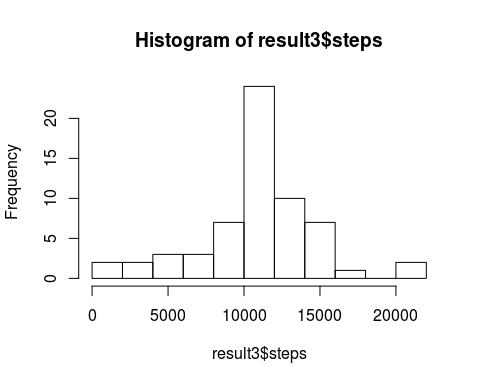
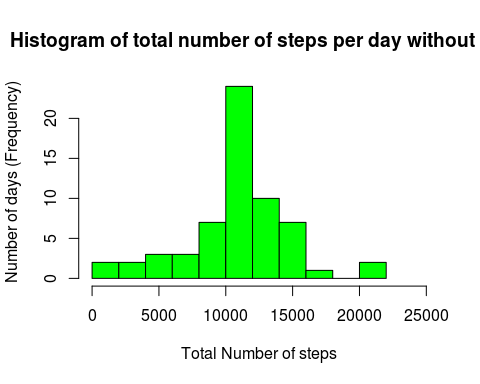
Second version

diff --git a/PA1_template.html b/PA1_template.html
@@ -72,7 +72,7 @@ img {
 <pre class="r"><code>unzip(&quot;activity.zip&quot;)
 fulldata &lt;- read.csv(&quot;activity.csv&quot;,header = T)</code></pre>
 <ol start="2" style="list-style-type: decimal">
-<li>Process/transform the data (if necessary) into a format suitable for your analysis<br />The date column is transformed from Factor to Date to ease later processing. The result is a 17568 ibservation dataframe with 3 columns.</li>
+<li>Process/transform the data (if necessary) into a format suitable for your analysis<br />The date column is transformed from Factor to Date to ease later processing.<br />The result is a 17568 observations dataframe with 3 columns.</li>
 </ol>
 <pre class="r"><code>fulldata$date &lt;- as.Date(fulldata$date,format=&quot;%Y-%m-%d&quot;)
 str(fulldata)</code></pre>
@@ -97,10 +97,9 @@ result &lt;- filteredata[,lapply(.SD,sum),by=date]</code></pre>
 <ol start="3" style="list-style-type: decimal">
 <li>The mean and median number of steps taken per day are:</li>
 </ol>
-<pre class="r"><code>median(result$steps)</code></pre>
-<pre><code>## [1] 10765</code></pre>
-<pre class="r"><code>mean(result$steps)</code></pre>
-<pre><code>## [1] 10766.19</code></pre>
+<pre class="r"><code>result_median&lt;-median(result$steps)
+result_mean&lt;-mean(result$steps)</code></pre>
+<p>Median: 10765<br />Mean; 10766.19</p>
 </div>
 <div id="what-is-the-average-daily-activity-pattern" class="section level2">
 <h2>What is the average daily activity pattern?</h2>
@@ -127,27 +126,23 @@ plot(x = result2$interval,y=result2$steps,type = &quot;l&quot;, col=&quot;blue&q
 <pre class="r"><code>     sum(is.na(fulldata$steps))</code></pre>
 <pre><code>## [1] 2304</code></pre>
 <ol start="2" style="list-style-type: decimal">
-<li>Devise a strategy for filling in all of the missing values in the dataset. I decided to substitute NA with the average of the 5 minute interval of all days.<br />So I merge the full data frame with NA togheter with the result from the previous steps representing the average of the five minute interval amont all days.</li>
+<li>Devise a strategy for filling in all of the missing values in the dataset. I decided to substitute <code>NA</code> with the average of the 5 minute interval of all days.<br />So I merge the full data frame with <code>NA</code> togheter with the result from the previous steps representing the average of the five minute interval amont all days.</li>
 </ol>
 <pre class="r"><code>     newfulldata&lt;- fulldata
      temp &lt;- merge(newfulldata[is.na(newfulldata),],result2, by = &quot;interval&quot;)</code></pre>
 <ol start="3" style="list-style-type: decimal">
 <li>Create a new dataset that is equal to the original dataset but with the missing data filled in.</li>
 </ol>
-<p>Then the new dataset “newfulldata” is created substituting NA on the first column (steps)</p>
+<p>Then the new dataset <code>newfulldata</code> is created substituting <code>NA</code> on the first column (steps)</p>
 <pre class="r"><code>     newfulldata[is.na(newfulldata),][,1] &lt;- temp[order(as.Date(temp$date.x,format=&quot;%Y-%m-%d&quot;)),][,4]</code></pre>
-<pre class="r"><code>     newfulldata &lt;- data.table(newfulldata)
-     result3 &lt;- newfulldata[,lapply(.SD,sum),by=date]</code></pre>
 <ol start="4" style="list-style-type: decimal">
 <li>Make a histogram of the total number of steps taken each day and Calculate and report the mean and median total number of steps taken per day. Do these values differ from the estimates from the first part of the assignment? What is the impact of imputing missing data on the estimates of the total daily number of steps?</li>
 </ol>
-<pre class="r"><code>     hist(result3$steps,breaks = 10, col = &quot;green&quot;, main = &quot;Histogram of total number of steps per day without NA&quot;,xlab = &quot;Total Number of steps&quot;, ylab = &quot;Number of days (Frequency)&quot;,,xlim =c(0,25000))</code></pre>
+<pre class="r"><code>newfulldata &lt;- data.table(newfulldata)
+result3 &lt;- newfulldata[,lapply(.SD,sum),by=date]
+hist(result3$steps,breaks = 10, col = &quot;green&quot;, main = &quot;Histogram of total number of steps per day without NA&quot;,xlab = &quot;Total Number of steps&quot;, ylab = &quot;Number of days (Frequency)&quot;,,xlim =c(0,25000))</code></pre>
[1 lines of base64/hex data omitted]
-<pre class="r"><code>     median(result3$steps)</code></pre>
-<pre><code>## [1] 10766.19</code></pre>
-<pre class="r"><code>     mean(result3$steps)</code></pre>
-<pre><code>## [1] 10766.19</code></pre>
-<p>The mean doesn’t change significantly from the calculated ones from the first step. That is because I used the averages to substitute the NA and thus the means remain the same. The median changes slightly because more observations have been added and that might alter slightly the median.</p>
+<p>The mean is 10766.19 and doesn’t change significantly from the calculated ones from the first step. That is because I used the averages to substitute the NA and thus the means remain the same. The median is 10766.19 and changes slightly because more observations have been added and that might alter slightly the median.</p>
 <pre class="r"><code>median(result3$steps) - median(result$steps)</code></pre>
 <pre><code>## [1] 1.188679</code></pre>
 <pre class="r"><code>mean(result3$steps) - mean(result$steps)</code></pre>
@@ -174,7 +169,8 @@ str(newfulldata2$weekdays)</code></pre>
 result_weekday &lt;- newfulldata2[newfulldata2$weekdays==&quot;weekday&quot;,lapply(.SD,mean),by=interval, .SDcols=c(&quot;steps&quot;)]
 result_weekend &lt;- newfulldata2[newfulldata2$weekdays==&quot;weekend&quot;,lapply(.SD,mean),by=interval, .SDcols=c(&quot;steps&quot;)]</code></pre>
 <p>These two variables are then plotted on a panel plot.</p>
-<pre class="r"><code>par(mfrow=c(2,1))
+<pre class="r"><code>library(lattice)
+par(mfrow=c(2,1))
 par(mar=c(4, 3, 3, 2))
 plot(result_weekday$interval,result_weekday$steps,type = &quot;l&quot;, col=&quot;blue&quot;, main = &quot;Mean Steps by Interval for Weekday&quot;,xlab = &quot;Intervals&quot;, ylab = &quot;Average steps&quot;)
 plot(result_weekend$interval,result_weekend$steps,type = &quot;l&quot;, col=&quot;red&quot;, main = &quot;Mean Steps by Interval for Weekends&quot; ,xlab = &quot;Intervals&quot;, ylab = &quot;Average steps&quot;)</code></pre>

diff --git a/PA1_template.md b/PA1_template.md
@@ -14,8 +14,8 @@ fulldata <- read.csv("activity.csv",header = T)
 ```
 
 2. Process/transform the data (if necessary) into a format suitable for your analysis   
-The date column is transformed from Factor to Date to ease later processing.
-The result is a 17568 ibservation dataframe with 3 columns.
+The date column is transformed from Factor to Date to ease later processing.   
+The result is a 17568 observations dataframe with 3 columns.
 
 ```r
 fulldata$date <- as.Date(fulldata$date,format="%Y-%m-%d")
@@ -56,20 +56,11 @@ hist(result$steps,col = "blue",breaks = 10,main = "Histogram of total number of 
 
 
 ```r
-median(result$steps)
+result_median<-median(result$steps)
+result_mean<-mean(result$steps)
 ```
-
-```
-## [1] 10765
-```
-
-```r
-mean(result$steps)
-```
-
-```
-## [1] 10766.19
-```
+Median:   10765   
+Mean;     10766.19
 
 ## What is the average daily activity pattern?
 
@@ -117,8 +108,8 @@ The maximum value and the interval number with the maximun value of average dail
 ## [1] 2304
 ```
 2. Devise a strategy for filling in all of the missing values in the dataset. 
-I decided to substitute NA with the average of the 5 minute interval of all days.   
-So I merge the full data frame with NA togheter with the result from the previous steps representing the average of the five minute interval amont all days.
+I decided to substitute `NA` with the average of the 5 minute interval of all days.   
+So I merge the full data frame with `NA` togheter with the result from the previous steps representing the average of the five minute interval amont all days.
 
 
 ```r
@@ -128,45 +119,25 @@ So I merge the full data frame with NA togheter with the result from the previou
 
 3. Create a new dataset that is equal to the original dataset but with the missing data filled in.  
 
-Then the new dataset "newfulldata" is created substituting NA on the first column (steps)
+Then the new dataset `newfulldata` is created substituting `NA` on the first column (steps)
 
 
 ```r
      newfulldata[is.na(newfulldata),][,1] <- temp[order(as.Date(temp$date.x,format="%Y-%m-%d")),][,4]
-```
-     
-
-```r
-     newfulldata <- data.table(newfulldata)
-     result3 <- newfulldata[,lapply(.SD,sum),by=date]
 ```
 
 4. Make a histogram of the total number of steps taken each day and Calculate and report the mean and median total number of steps taken per day. Do these values differ from the estimates from the first part of the assignment? What is the impact of imputing missing data on the estimates of the total daily number of steps?   
 
 
 ```r
-     hist(result3$steps,breaks = 10, col = "green", main = "Histogram of total number of steps per day without NA",xlab = "Total Number of steps", ylab = "Number of days (Frequency)",,xlim =c(0,25000))
+newfulldata <- data.table(newfulldata)
+result3 <- newfulldata[,lapply(.SD,sum),by=date]
+hist(result3$steps,breaks = 10, col = "green", main = "Histogram of total number of steps per day without NA",xlab = "Total Number of steps", ylab = "Number of days (Frequency)",,xlim =c(0,25000))
 ```
 
-![](PA1_template_files/figure-html/unnamed-chunk-10-1.png) 
+![](PA1_template_files/figure-html/unnamed-chunk-9-1.png) 
 
-```r
-     median(result3$steps)
-```
-
-```
-## [1] 10766.19
-```
-
-```r
-     mean(result3$steps)
-```
-
-```
-## [1] 10766.19
-```
-
-The mean doesn't change significantly from the calculated ones from the first step. That is because I used the averages to substitute the NA and thus the means remain the same. The median changes slightly because more observations have been added and that might alter slightly the median.
+The mean is 10766.19 and doesn't change significantly from the calculated ones from the first step. That is because I used the averages to substitute the NA and thus the means remain the same. The median is 10766.19 and changes slightly because more observations have been added and that might alter slightly the median.
 
 
 ```r
@@ -184,7 +155,10 @@ mean(result3$steps) - mean(result$steps)
 ```
 ## [1] 0
 ```
+
+
 ## Are there differences in activity patterns between weekdays and weekends?
+   
 1. Create a new factor variable in the dataset with two levels – “weekday” and “weekend” indicating whether a given date is a weekday or weekend day.
 
 I add a column with the weekday values, then I use string function "sub" to substitute weekdays with only two values ("weekday","weekend").   
@@ -218,13 +192,14 @@ These two variables are then plotted on a panel plot.
    
 
 ```r
+library(lattice)
 par(mfrow=c(2,1))
 par(mar=c(4, 3, 3, 2))
 plot(result_weekday$interval,result_weekday$steps,type = "l", col="blue", main = "Mean Steps by Interval for Weekday",xlab = "Intervals", ylab = "Average steps")
 plot(result_weekend$interval,result_weekend$steps,type = "l", col="red", main = "Mean Steps by Interval for Weekends" ,xlab = "Intervals", ylab = "Average steps")
 ```
 
-![](PA1_template_files/figure-html/unnamed-chunk-14-1.png) 
+![](PA1_template_files/figure-html/unnamed-chunk-13-1.png) 
 
 The plot and the following summary states that the average number of steps is higher on weekends rather than during weekdays. 
 
